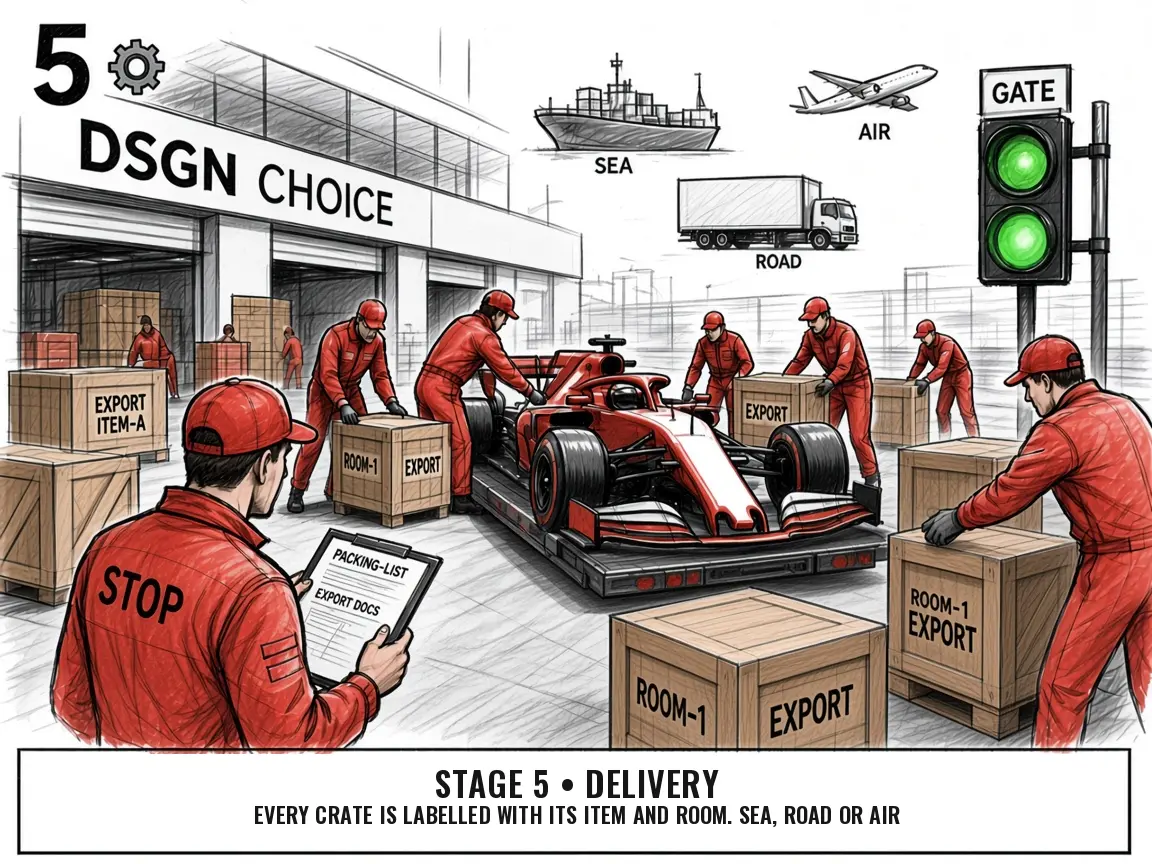
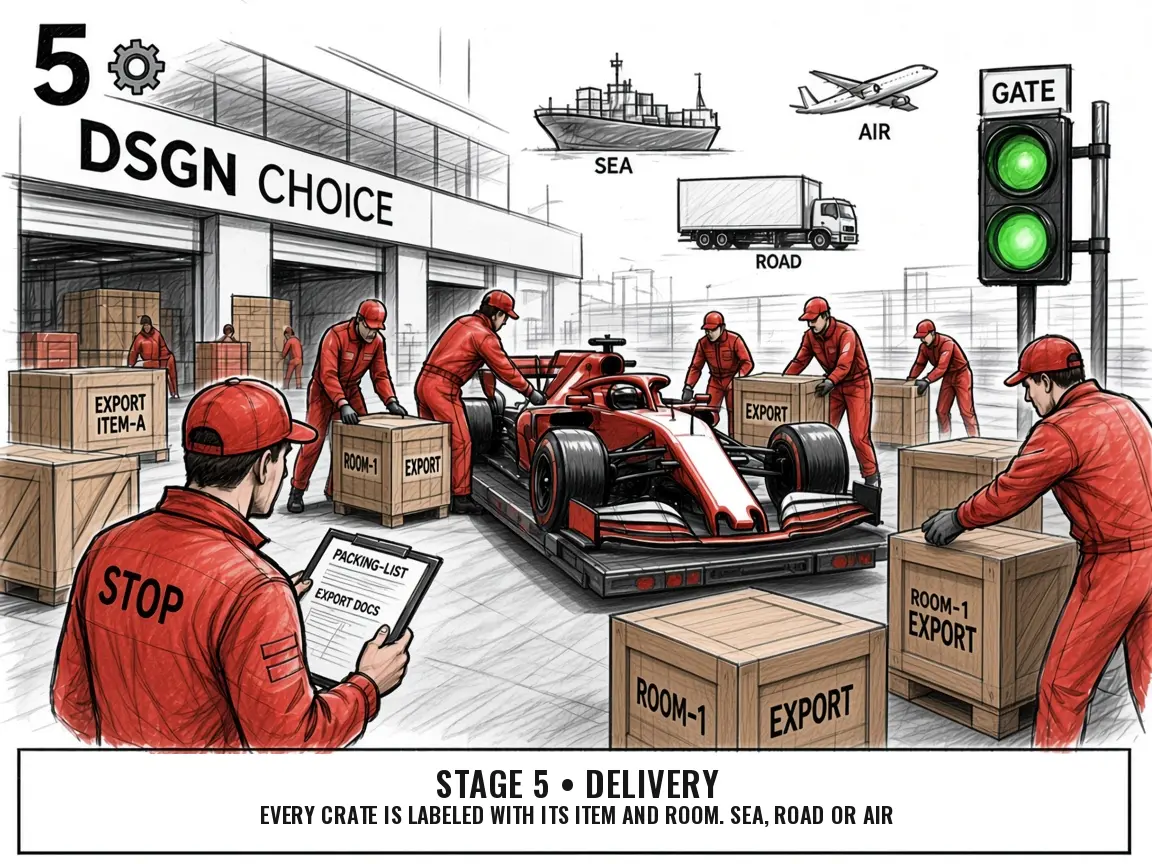
fix: proofread site copy across EN and RU locales
EN: "architect set" → "architectural set", American English spellings
(labeled, cabinets, countertops, paneling), added article "the Kyiv region".

RU: "В каждом рынке" → "На каждом рынке" (correct preposition),
"дистанционным" → "удалённым" (shorter synonym, fits line limit).

Regenerated pit-stop PNGs and WebP files for the changed captions.

Claude-Session: https://claude.ai/code/session_01VrwKjsMYad19rJ1RTgWPmA

Changed region(s): [[0.2188, 0.875, 0.7812, 0.9688]]

diff --git a/src/i18n/en.ts b/src/i18n/en.ts
@@ -226,7 +226,7 @@ export const en: SiteCopy = {
     },
     deliver: {
       title: 'Delivery',
-      body: 'Every crate is labelled with its item and room. Sea, road or air.',
+      body: 'Every crate is labeled with its item and room. Sea, road or air.',
       deliverable: 'Packing list and export documents',
       gate: 'Approved for Shipment',
     },
@@ -239,7 +239,7 @@ export const en: SiteCopy = {
   plant: {
     eyebrow: 'Made in our own plant',
     title: 'Engineering, production and QC in one building.',
-    body: 'Machining, veneer, finishing, assembly, quality control and packing all happen in one plant in Kyiv region. Come and see it, or we can walk you through it on a video call.',
+    body: 'Machining, veneer, finishing, assembly, quality control and packing all happen in one plant in the Kyiv region. Come and see it, or we can walk you through it on a video call.',
     facts: ['Own engineering office', 'Own production floor', 'Independent QC'],
   },
   capabilities: {
@@ -248,7 +248,7 @@ export const en: SiteCopy = {
     items: {
       kitchens: {
         title: 'Kitchens and built-ins',
-        body: 'Carcasses, fronts, worktops, integrated appliances.',
+        body: 'Cabinets, fronts, countertops, integrated appliances.',
       },
       wardrobes: {
         title: 'Wardrobes and dressing rooms',
@@ -256,7 +256,7 @@ export const en: SiteCopy = {
       },
       walls: {
         title: 'Wall systems and doors',
-        body: 'Panelling, concealed doors, acoustic and feature walls.',
+        body: 'Paneling, concealed doors, acoustic and feature walls.',
       },
       millwork: {
         title: 'Furniture and millwork',
@@ -276,7 +276,7 @@ export const en: SiteCopy = {
         title: 'Hotel, 64 keys',
         shortTitle: 'Hotel',
         sector: 'Hospitality',
-        challenge: 'One architect set repeated across rooms, with a fixed install window.',
+        challenge: 'One architectural set repeated across rooms, with a fixed install window.',
         result: 'We approved one assembly for every room and installed inside the window.',
         tags: ['Repeating set', 'Guest rooms', 'Veneer'],
         placeholder: 'Project photos coming soon',
@@ -328,7 +328,7 @@ export const en: SiteCopy = {
       city: 'Kyiv region',
       role: 'Plant, engineering, QC',
       person: 'Name, role',
-      heroLine: 'Plant and engineering in Kyiv region. Projects in Ukraine, the United States and Montenegro.',
+      heroLine: 'Plant and engineering in the Kyiv region. Projects in Ukraine, the United States and Montenegro.',
     },
     US: {
       label: 'United States',

diff --git a/src/i18n/ru.ts b/src/i18n/ru.ts
@@ -94,7 +94,7 @@ export const ru: SiteCopy = {
     },
     support: {
       title: 'Монтаж',
-      body: 'Монтирует наша бригада или ваша местная с нашим дистанционным сопровождением. Гарантия действует со сдачи.',
+      body: 'Монтирует наша бригада или ваша местная с нашим удалённым сопровождением. Гарантия действует со сдачи.',
       deliverable: 'Сдача по зонам и условия гарантии',
     },
   },
@@ -182,7 +182,7 @@ export const ru: SiteCopy = {
   ground: {
     eyebrow: 'На месте',
     title: 'Контакт в вашем часовом поясе',
-    lede: 'Работаем напрямую с дизайнерами, архитекторами и подрядчиками, без дилеров. В каждом рынке есть свой контакт.',
+    lede: 'Работаем напрямую с дизайнерами, архитекторами и подрядчиками, без дилеров. На каждом рынке есть свой контакт.',
   },
   markets: {
     UA: {
